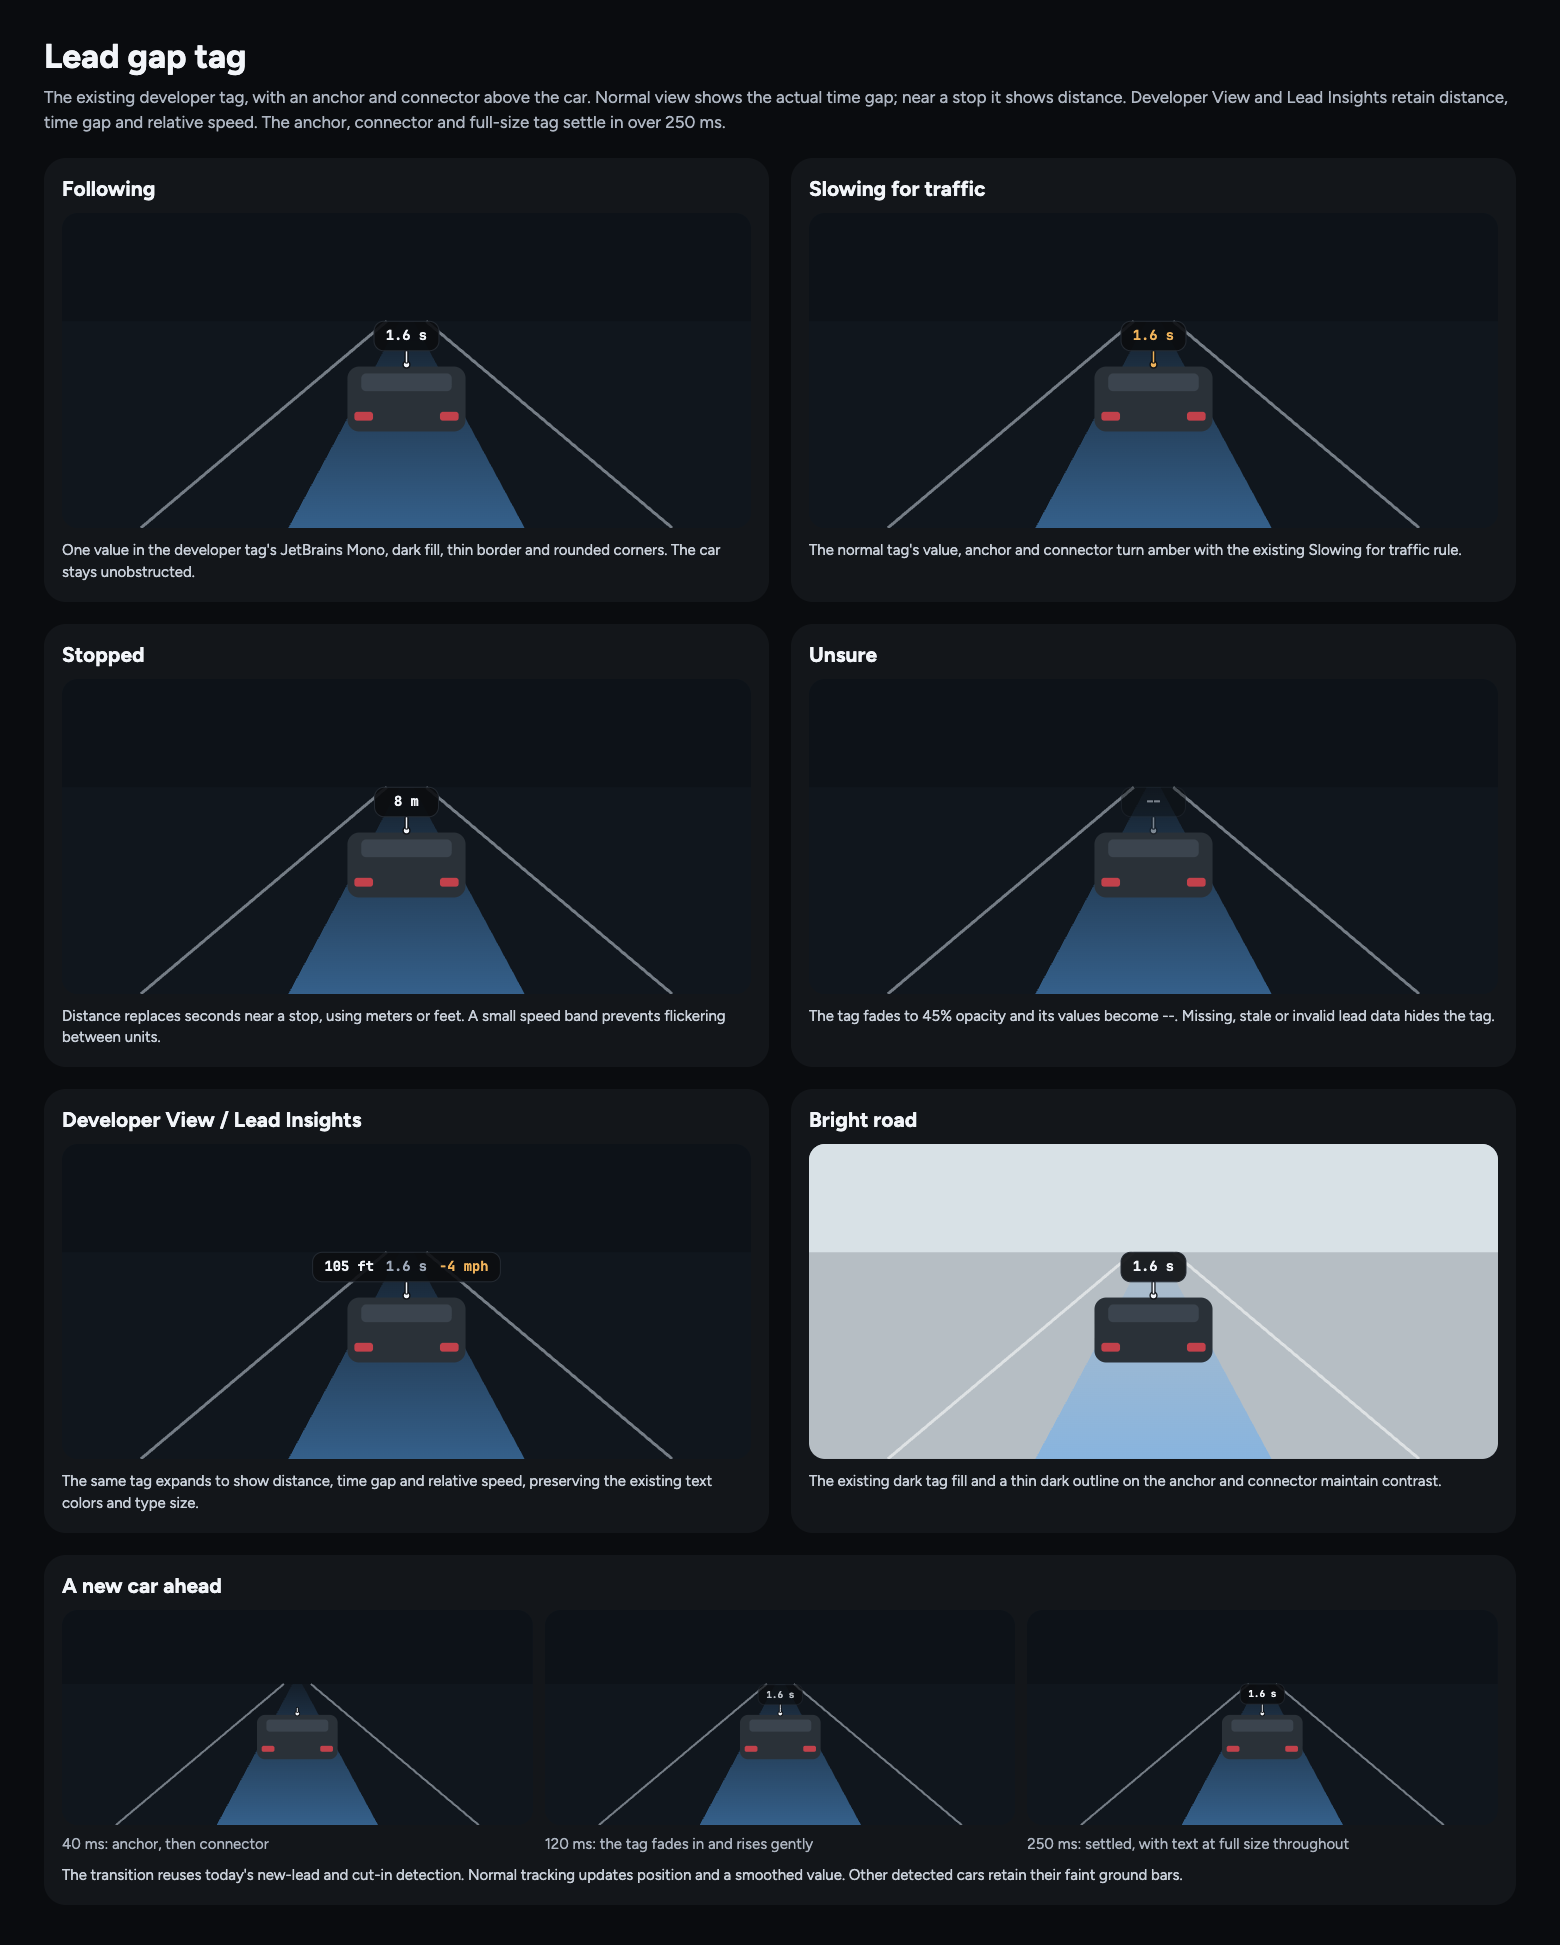
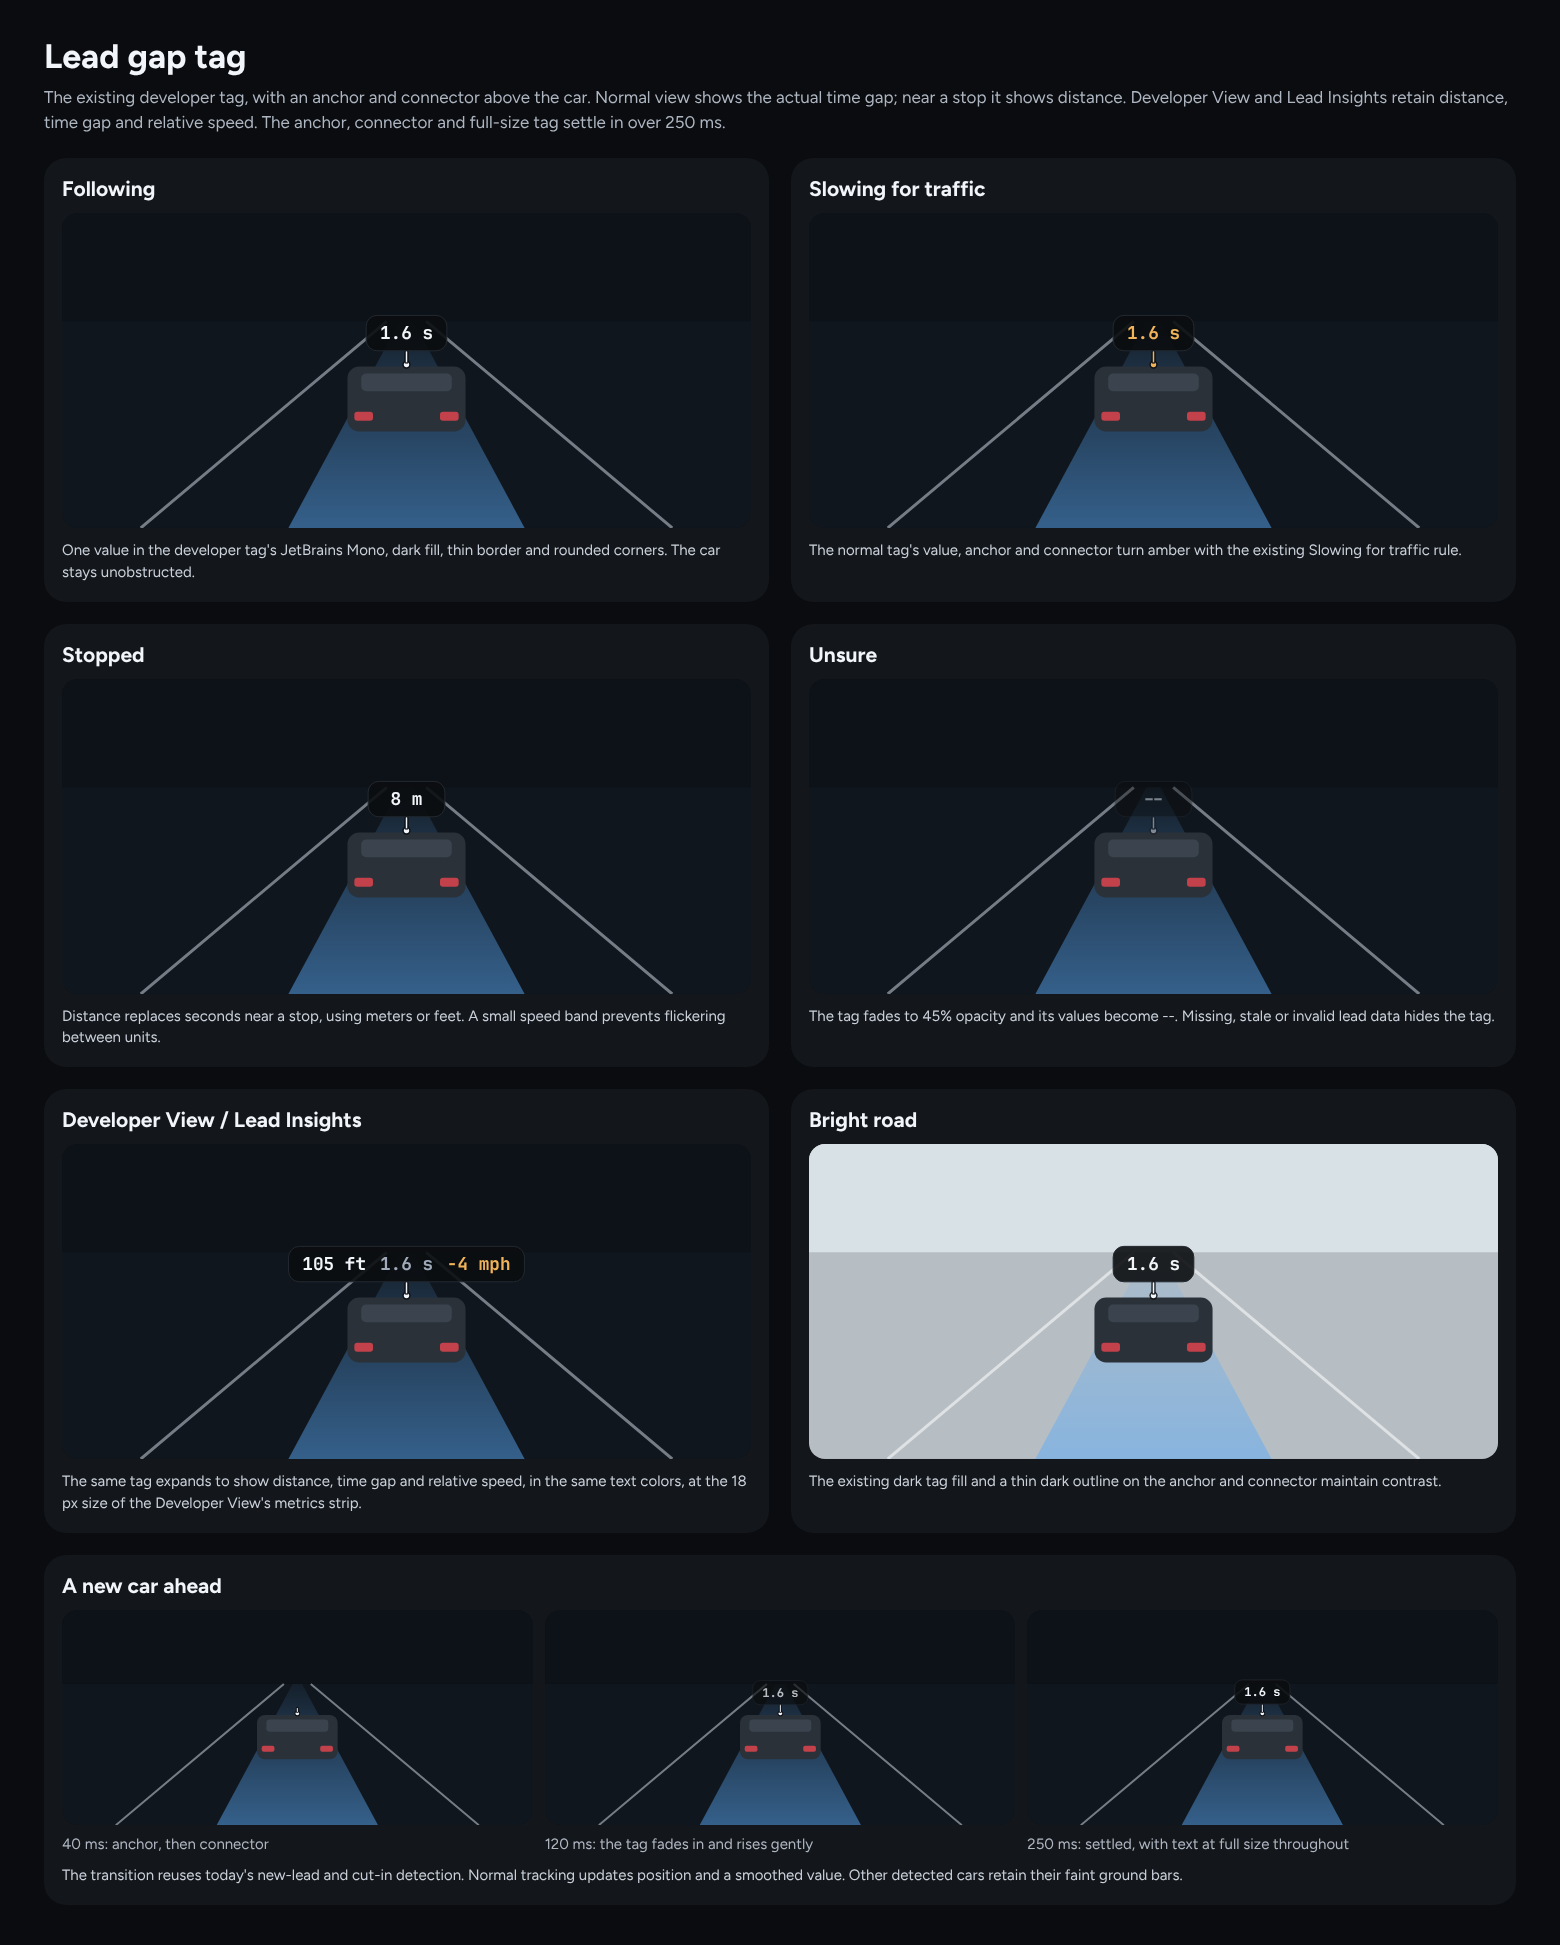
Lead tag text at the metrics strip's 18 px size
The floating tag over the lead car (gap tag, Lead Insights and Developer View)
now uses the Developer View metrics strip's text size, with the tag's height,
padding and corners scaled to match. Mock gaptag.html updated and re-shot.

Claude-Session: https://claude.ai/code/session_01R4pPc2hcx88Dbjjec1p8WC

diff --git a/selfdrive/ui/tandem/design/gaptag.html b/selfdrive/ui/tandem/design/gaptag.html
@@ -13,7 +13,7 @@ h1{font-size:34px;margin:0 0 8px}header p{font-size:17px;color:#AEB6C2;margin:0 
 article{background:#13161A;border-radius:22px;padding:18px;min-width:0}h2{font-size:21px;margin:0 0 12px}
 svg{display:block;width:100%;border-radius:16px;background:#10161D}article p{color:#C9D0DA;font-size:15px;line-height:1.45;margin:12px 0 0}
 .entrance{grid-column:1/-1}.frames{display:grid;grid-template-columns:repeat(3,minmax(0,1fr));gap:12px}.frames figure{margin:0}
-figcaption{font-size:15px;color:#AEB6C2;margin-top:10px}.tag{font-family:JetBrains,monospace;font-weight:700;font-size:14px}
+figcaption{font-size:15px;color:#AEB6C2;margin-top:10px}.tag{font-family:JetBrains,monospace;font-weight:700;font-size:18px}
 </style>
 <div class="sheet">
   <header>
@@ -27,7 +27,7 @@ figcaption{font-size:15px;color:#AEB6C2;margin-top:10px}.tag{font-family:JetBrai
     <article><h2>Slowing for traffic</h2><div data-scene="braking"></div><p>The normal tag's value, anchor and connector turn amber with the existing Slowing for traffic rule.</p></article>
     <article><h2>Stopped</h2><div data-scene="stopped"></div><p>Distance replaces seconds near a stop, using meters or feet. A small speed band prevents flickering between units.</p></article>
     <article><h2>Unsure</h2><div data-scene="uncertain"></div><p>The tag fades to 45% opacity and its values become --. Missing, stale or invalid lead data hides the tag.</p></article>
-    <article><h2>Developer View / Lead Insights</h2><div data-scene="developer"></div><p>The same tag expands to show distance, time gap and relative speed, preserving the existing text colors and type size.</p></article>
+    <article><h2>Developer View / Lead Insights</h2><div data-scene="developer"></div><p>The same tag expands to show distance, time gap and relative speed, in the same text colors, at the 18 px size of the Developer View's metrics strip.</p></article>
     <article><h2>Bright road</h2><div data-scene="bright"></div><p>The existing dark tag fill and a thin dark outline on the anchor and connector maintain contrast.</p></article>
     <article class="entrance"><h2>A new car ahead</h2><div class="frames">
       <figure><div data-scene="acquire" data-ms="40"></div><figcaption>40 ms: anchor, then connector</figcaption></figure>
@@ -48,10 +48,10 @@ figcaption{font-size:15px;color:#AEB6C2;margin-top:10px}.tag{font-family:JetBrai
     const cx = 350, bottom = 222, roof = 156, anchor = roof - 2;
     const label = unsure ? '--' : kind === 'stopped' ? '8 m' : '1.6 s';
     const parts = kind === 'developer' ? [['105 ft','#F2F5F9'],['1.6 s','#9FAABA'],['−4 mph','#F0B35A']] : [[label,ink]];
-    const widths = parts.map(part => part[0].length * 8.4), width = Math.max(65, widths.reduce((a,b)=>a+b,0) + 24 + 12 * (parts.length - 1));
-    const x = cx - width / 2, y = anchor - 14 - 30 + 4 * (1 - tagAlpha), stemLength = 10 * stem;
-    let cursor = parts.length === 1 ? x + (width - widths[0]) / 2 : x + 12;
-    const words = parts.map((part,i) => { const text = `<text class="tag" x="${cursor}" y="${y+19.5}" fill="${part[1]}">${part[0]}</text>`; cursor += widths[i] + 12; return text; }).join('');
+    const widths = parts.map(part => part[0].length * 10.8), width = Math.max(78, widths.reduce((a,b)=>a+b,0) + 28 + 14 * (parts.length - 1));
+    const x = cx - width / 2, y = anchor - 14 - 36 + 4 * (1 - tagAlpha), stemLength = 10 * stem;
+    let cursor = parts.length === 1 ? x + (width - widths[0]) / 2 : x + 14;
+    const words = parts.map((part,i) => { const text = `<text class="tag" x="${cursor}" y="${y+24}" fill="${part[1]}">${part[0]}</text>`; cursor += widths[i] + 14; return text; }).join('');
     return `<svg viewBox="0 0 700 320" role="img" aria-label="${kind} lead gap tag">
       <defs><linearGradient id="path-${index}" x1="0" y1="1" x2="0" y2="0"><stop stop-color="#5AAAF8" stop-opacity=".5"/><stop offset=".55" stop-color="#5AAAF8" stop-opacity=".28"/><stop offset="1" stop-color="#5AAAF8" stop-opacity=".06"/></linearGradient></defs>
       <rect width="700" height="320" fill="${fill}"/><rect width="700" height="110" fill="${sky}"/>
@@ -63,7 +63,7 @@ figcaption{font-size:15px;color:#AEB6C2;margin-top:10px}.tag{font-family:JetBrai
       <g opacity="${opacity}">
         <g opacity="${anchorAlpha}"><circle cx="350" cy="${anchor}" r="4.2" fill="#0B0D10" fill-opacity=".85"/><circle cx="350" cy="${anchor}" r="2.7" fill="${ink}"/></g>
         <g opacity="${anchorAlpha}"><path d="M350 ${anchor-3}v${-stemLength}" stroke="#0B0D10" stroke-opacity=".85" stroke-width="4.5" stroke-linecap="round"/><path d="M350 ${anchor-3}v${-stemLength}" stroke="${ink}" stroke-width="1.5" stroke-linecap="round"/></g>
-        <g opacity="${tagAlpha}"><rect x="${x}" y="${y}" width="${width}" height="30" rx="10" fill="#0B0D10" fill-opacity=".9" stroke="#242A32" stroke-width="1"/>${words}</g>
+        <g opacity="${tagAlpha}"><rect x="${x}" y="${y}" width="${width}" height="36" rx="11" fill="#0B0D10" fill-opacity=".9" stroke="#242A32" stroke-width="1"/>${words}</g>
       </g>
     </svg>`;
   }

diff --git a/selfdrive/ui/tandem/onroad/developer.py b/selfdrive/ui/tandem/onroad/developer.py
@@ -197,10 +197,10 @@ def draw_lead_tag(center_x: float, top_y: float, lead: Lead, *, compact: bool = 
   ink = T.WARNING if braking else T.TEXT
   parts = [(value if value is not None else lead.gap, ink, BOLD)] if compact else [
     (lead.distance, T.TEXT, BOLD), (lead.gap, LABEL, BOLD), (lead.rel_speed, T.WARNING if lead.closing else T.TEXT_SECONDARY, BOLD)]
-  size, gap, pad = T.font_px(14), T.px(12), T.px(12)
+  size, gap, pad = STRIP_TEXT, T.px(14), T.px(14)   # the metrics strip's size (design/gaptag.html)
   widths = [draw.text_width(text, size, weight) for text, _, weight in parts]
-  w = max(T.px(65) if compact else 0.0, sum(widths) + gap * (len(parts) - 1) + pad * 2)
-  h = T.px(30)
+  w = max(T.px(78) if compact else 0.0, sum(widths) + gap * (len(parts) - 1) + pad * 2)
+  h = T.px(36)
   box = rl.Rectangle(center_x - w / 2, top_y - h - T.px(14), w, h)
   anchor_alpha, connector, tag_alpha = lead_tag_motion(progress) if anchored else (0.0, 0.0, 1.0)
   if bounds is not None:
@@ -224,8 +224,8 @@ def draw_lead_tag(center_x: float, top_y: float, lead: Lead, *, compact: bool = 
   alpha = opacity * tag_alpha
   if alpha <= 0.01:
     return box
-  draw.fill(box, draw.alpha(TAG_FILL, alpha), T.px(10))
-  draw.stroke(box, draw.alpha(T.TRACK, alpha), T.px(10), T.px(1))
+  draw.fill(box, draw.alpha(TAG_FILL, alpha), T.px(11))
+  draw.stroke(box, draw.alpha(T.TRACK, alpha), T.px(11), T.px(1))
   x = box.x + (w - sum(widths)) / 2 if compact else box.x + pad
   for (text, ink, weight), width in zip(parts, widths, strict=True):
     draw.text(rl.Rectangle(x, box.y, width, box.height), text, size, draw.alpha(ink, alpha), weight)
